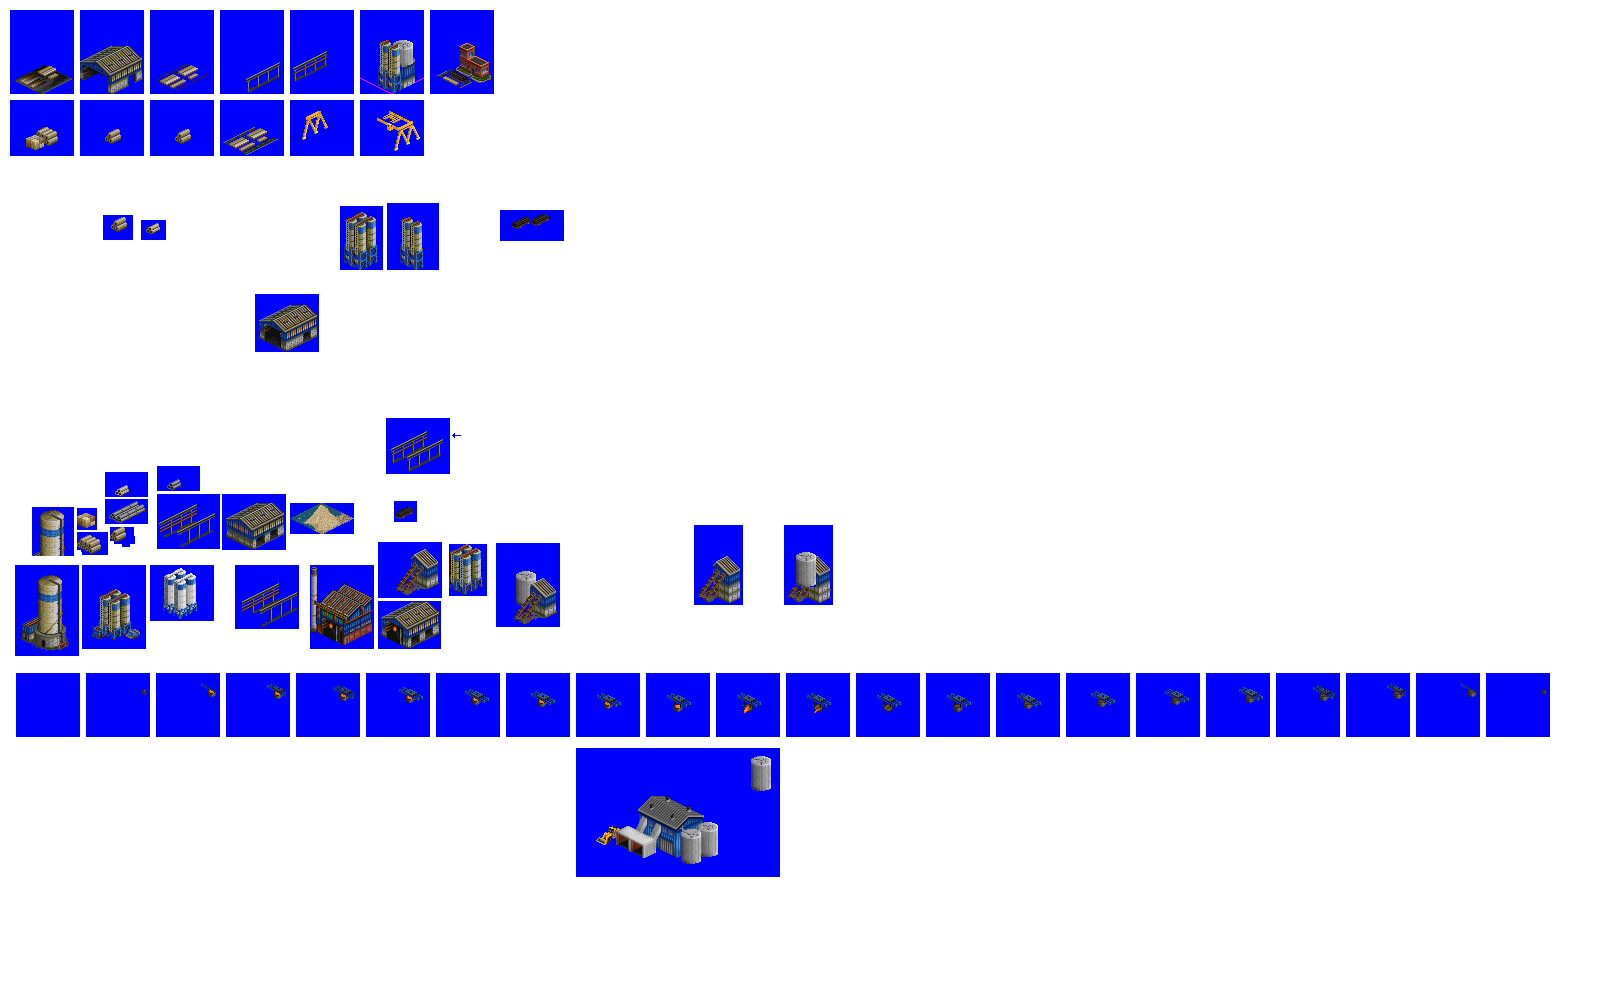
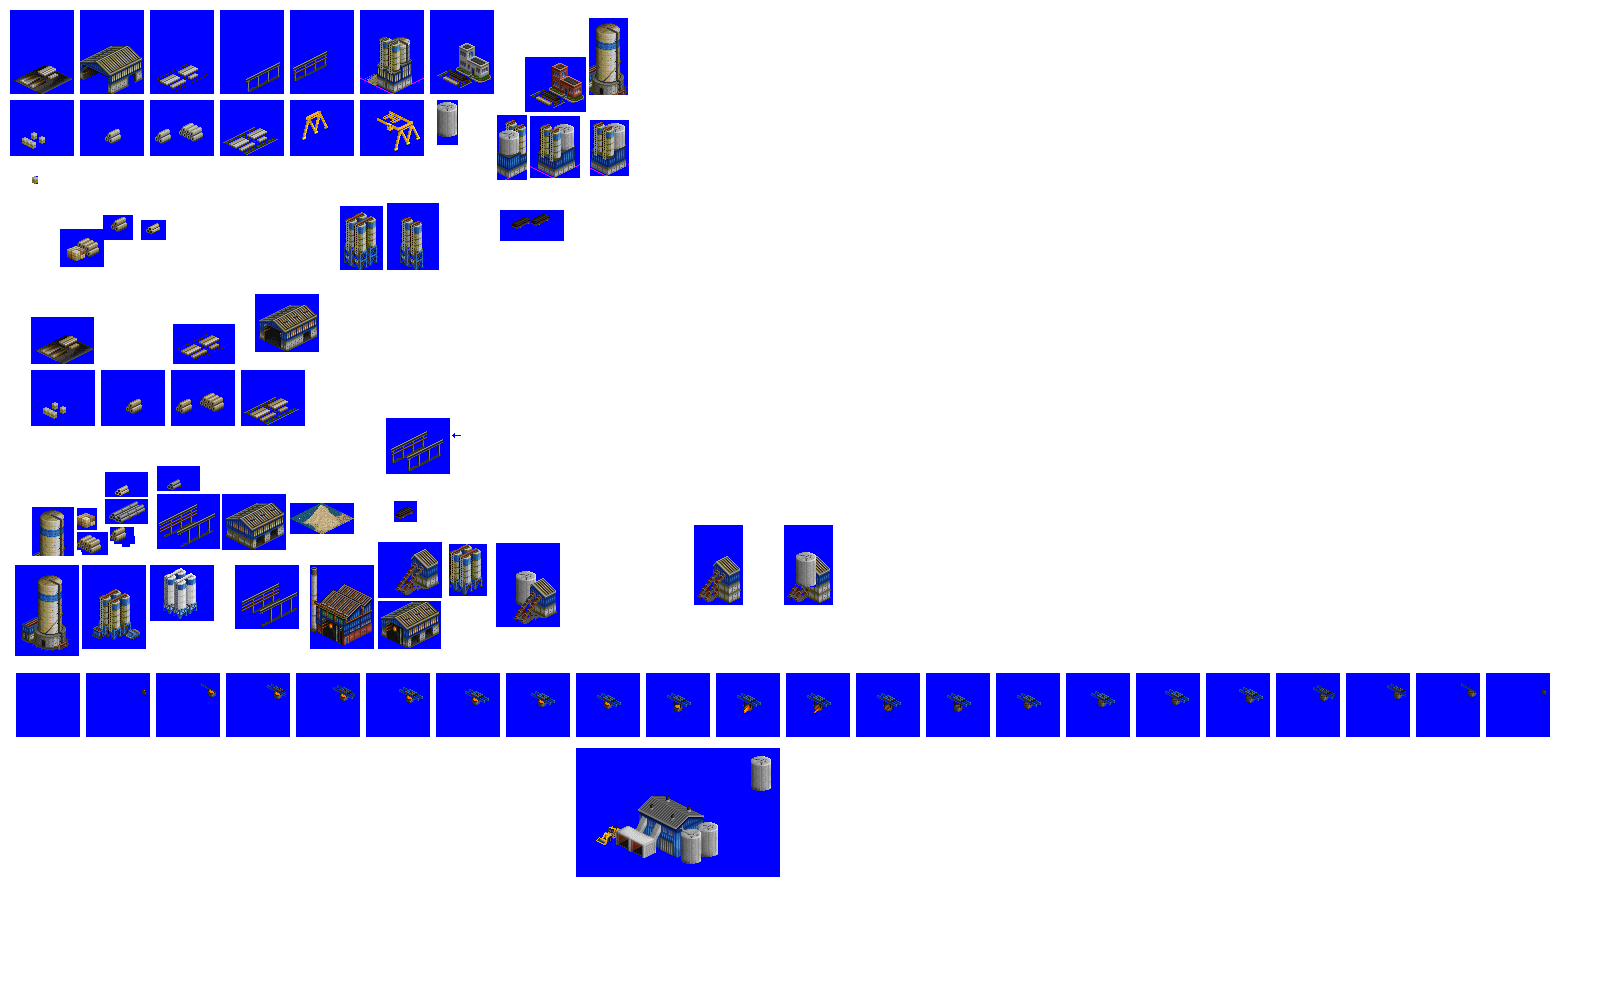
Change: more WIP on improved concrete plant sprites

diff --git a/src/industries/concrete_plant.py b/src/industries/concrete_plant.py
@@ -193,7 +193,7 @@ industry.add_industry_outpost_layout(
         (
             2,
             1,
-            "concrete_plant_spritelayout_pipes",
+            "concrete_plant_spritelayout_blocks_1",
         ),
     ],
 )
@@ -202,20 +202,20 @@ industry.add_industry_outpost_layout(
 industry.add_industry_layout(
     id="concrete_plant_industry_layout_1",
     layout=[
-        (0, 0, "concrete_plant_spritelayout_blocks_1"),
-        (0, 1, "concrete_plant_spritelayout_blocks_1"),
+        (0, 0, "concrete_plant_spritelayout_silo_1"),
+        (0, 1, "concrete_plant_spritelayout_pipes"),
         (0, 2, "concrete_plant_spritelayout_pipes"),
-        (1, 0, "concrete_plant_spritelayout_silo_1"),
+        (1, 0, "concrete_plant_spritelayout_shed_1"),
         (1, 1, "concrete_plant_spritelayout_shed_1"),
         (1, 2, "concrete_plant_spritelayout_travelling_crane_rails_and_blocks"),
-        (2, 0, "concrete_plant_spritelayout_blocks_1"),
+        (2, 0, "concrete_plant_spritelayout_shed_1"),
         (2, 1, "concrete_plant_spritelayout_shed_1"),
         (2, 2, "concrete_plant_spritelayout_travelling_crane"),
-        (3, 0, "concrete_plant_spritelayout_pipes"),
+        (3, 0, "concrete_plant_spritelayout_blocks_1"),
         (3, 1, "concrete_plant_spritelayout_overhead_crane_1"),
         (3, 2, "concrete_plant_spritelayout_travelling_crane_rails_and_blocks"),
         (4, 0, "concrete_plant_spritelayout_gatehouse_and_rebar"),
-        (4, 1, "concrete_plant_spritelayout_pipes"),
+        (4, 1, "concrete_plant_spritelayout_blocks_1"),
         (4, 2, "concrete_plant_spritelayout_blocks_1"),
     ],
 )
